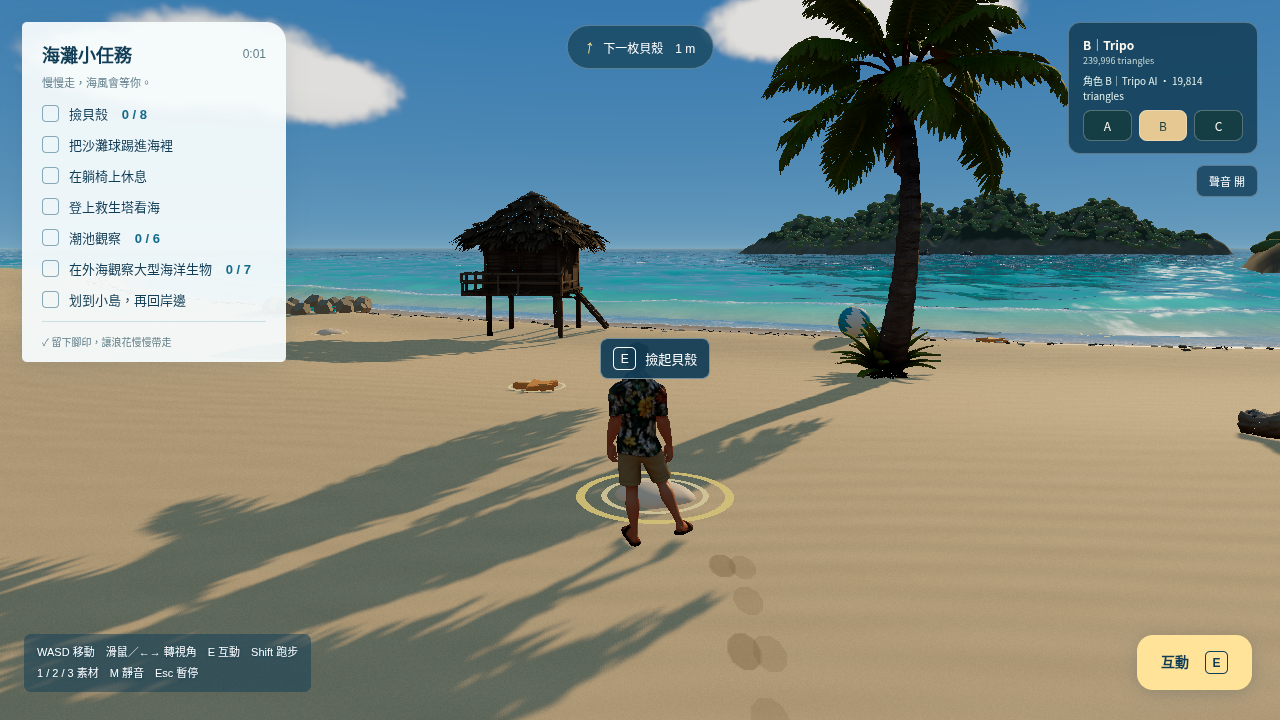
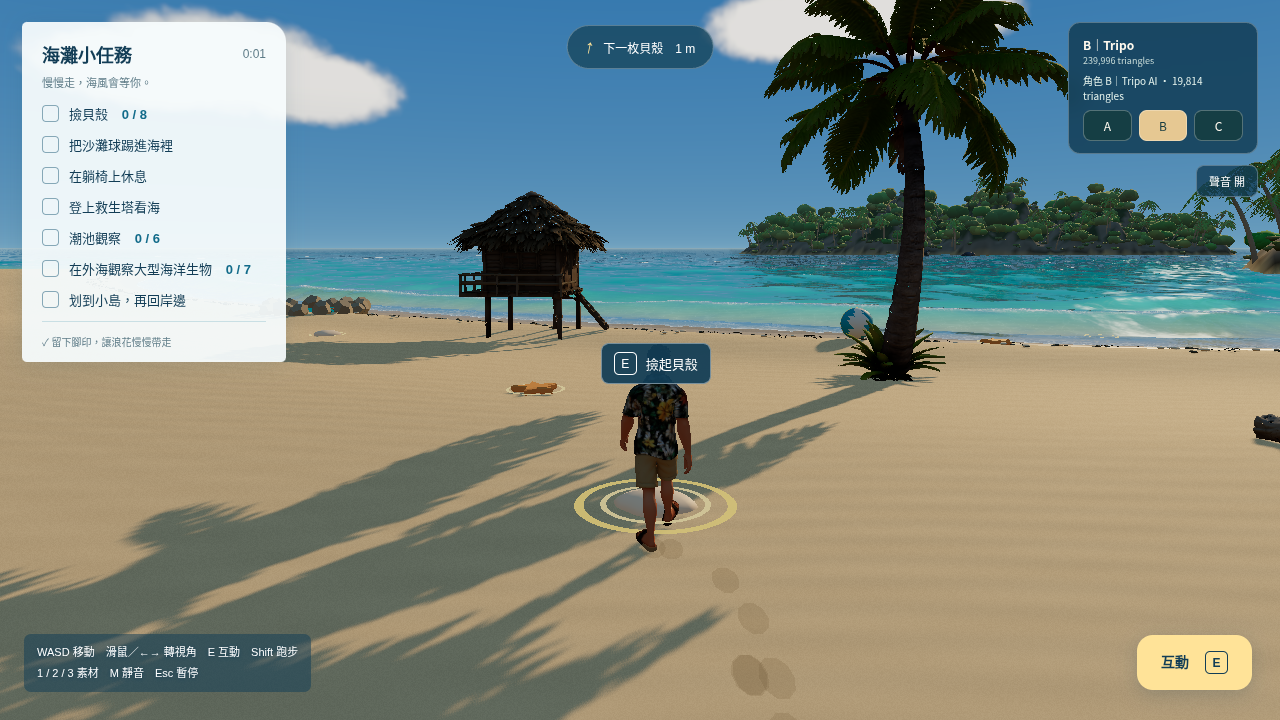
修正錄影時遊戲跑兩倍速：step() 推進過的時間，畫面迴圈不再重複更新；更新遊戲回歸截圖（上船、走跑、小島植被合併後）
Claude-Session: https://claude.ai/code/session_01USRpqyJ3nNu4mbR3gC6di4

diff --git a/src/game/index.js b/src/game/index.js
@@ -675,6 +675,6 @@ export async function createGame({scene,camera,renderer,water,config,explore:e,a
    }});
   return [...targets,sand].map(t=>({id:t.id,n:t.n,max:+t.max.toFixed(3),worst:t.worst}));
  }
- if(auto){Object.assign(api,{penetration,boardInfo(){return {stern:boat.stern,hull:boat.hull,seat:boatSeat.point.toArray(),floorY:row.floorY,deck:boat.deck?.map(d=>[+d.z.toFixed(2),+d.y.toFixed(2),...d.gun.map(g=>g&&[+g.x.toFixed(2),+g.y.toFixed(2)])]),player:e.player.toArray(),feet:launch.feet.map(f=>f.toArray()),hands:launch.hands.map(h=>h.toArray()),pelvis:launch.pelvis,lean:launch.lean,vessel:vessel.matrixWorld.elements.slice()};},boatInfo(){const b=new T.Box3().setFromObject(boatModel,true);return {draft:boat.draft,mask:boat.mask?boat.mask.geometry.attributes.position.count:0,keelBelowWater:+(vessel.position.y-b.min.y).toFixed(3),gunwaleAboveWater:+(b.max.y-vessel.position.y).toFixed(3)};},ladder(){return anchors.lifeguard.ladder;},climbState(){return {towerT,towerDir,root:climb.root.toArray(),hands:climb.hands.map(h=>h.toArray()),player:e.player.toArray(),total:towerTotal()};},footWorld(i){return character.footWorld(i,new T.Vector3());},handWorld(i){return character.rig.hand[i].getWorldPosition(new T.Vector3());},teleport(x,z){if(mode!=='walk')throw Error('Teleport is only available on foot');e.player.set(x,groundHeight(x,z),z);lastPlayer.copy(e.player);},targets(){return {shells:objects.items.map(s=>({x:s.x,y:s.y,z:s.z,collected:s.collected})),ball:objects.ball.position.toArray(),umbrella:anchors.umbrella.point.toArray(),tidepool:pool.point.toArray(),lagoon:pool.point.toArray(),lifeguard:anchors.lifeguard.point.toArray(),boat:anchors.boat.point.toArray(),dock,island};},step(seconds){let remaining=seconds;while(remaining>1e-6){const dt=Math.min(1/60,remaining);window.__TIME__=time()+dt;water.material.uniforms.time.value=window.__TIME__;e.update(dt);update(dt,window.__TIME__);remaining-=dt;}},steer(angle){if(mode!=='boat')throw Error('Not in boat');boatYaw=angle;},view(yaw){e.setView(yaw);},wave(x,z,t){return {...sampleWater(x,z,t,{}),drawn:surfaceHeight(x,z,t)};}});Object.defineProperty(api,'pushBoat',{get(){return pushBoat;},set(v){pushBoat=!!v;}});Object.defineProperty(api,'launch',{get(){return {active:launch.active,board:launch.board,speed:launch.speed,hands:launch.hands.map(h=>h.toArray())};}});Object.defineProperty(api,'vessel',{get(){return {x:vessel.position.x,y:vessel.position.y,z:vessel.position.z,yaw:boatYaw,speed:boatSpeed};}});window.__GAME__=api;}
+ if(auto){Object.assign(api,{penetration,boardInfo(){return {stern:boat.stern,hull:boat.hull,seat:boatSeat.point.toArray(),floorY:row.floorY,deck:boat.deck?.map(d=>[+d.z.toFixed(2),+d.y.toFixed(2),...d.gun.map(g=>g&&[+g.x.toFixed(2),+g.y.toFixed(2)])]),player:e.player.toArray(),feet:launch.feet.map(f=>f.toArray()),hands:launch.hands.map(h=>h.toArray()),pelvis:launch.pelvis,lean:launch.lean,vessel:vessel.matrixWorld.elements.slice()};},boatInfo(){const b=new T.Box3().setFromObject(boatModel,true);return {draft:boat.draft,mask:boat.mask?boat.mask.geometry.attributes.position.count:0,keelBelowWater:+(vessel.position.y-b.min.y).toFixed(3),gunwaleAboveWater:+(b.max.y-vessel.position.y).toFixed(3)};},ladder(){return anchors.lifeguard.ladder;},climbState(){return {towerT,towerDir,root:climb.root.toArray(),hands:climb.hands.map(h=>h.toArray()),player:e.player.toArray(),total:towerTotal()};},footWorld(i){return character.footWorld(i,new T.Vector3());},handWorld(i){return character.rig.hand[i].getWorldPosition(new T.Vector3());},teleport(x,z){if(mode!=='walk')throw Error('Teleport is only available on foot');e.player.set(x,groundHeight(x,z),z);lastPlayer.copy(e.player);},targets(){return {shells:objects.items.map(s=>({x:s.x,y:s.y,z:s.z,collected:s.collected})),ball:objects.ball.position.toArray(),umbrella:anchors.umbrella.point.toArray(),tidepool:pool.point.toArray(),lagoon:pool.point.toArray(),lifeguard:anchors.lifeguard.point.toArray(),boat:anchors.boat.point.toArray(),dock,island};},step(seconds){let remaining=seconds;while(remaining>1e-6){const dt=Math.min(1/60,remaining);window.__TIME__=time()+dt;water.material.uniforms.time.value=window.__TIME__;e.update(dt);update(dt,window.__TIME__);remaining-=dt;}water.userData.simTime=window.__TIME__;},steer(angle){if(mode!=='boat')throw Error('Not in boat');boatYaw=angle;},view(yaw){e.setView(yaw);},wave(x,z,t){return {...sampleWater(x,z,t,{}),drawn:surfaceHeight(x,z,t)};}});Object.defineProperty(api,'pushBoat',{get(){return pushBoat;},set(v){pushBoat=!!v;}});Object.defineProperty(api,'launch',{get(){return {active:launch.active,board:launch.board,speed:launch.speed,hands:launch.hands.map(h=>h.toArray())};}});Object.defineProperty(api,'vessel',{get(){return {x:vessel.position.x,y:vessel.position.y,z:vessel.position.z,yaw:boatYaw,speed:boatSpeed};}});window.__GAME__=api;}
  update(0,time());return api;
 }

diff --git a/src/main.js b/src/main.js
@@ -69,6 +69,6 @@ const game=gaming?await (await import('./game/index.js')).createGame({scene,came
 let lastFrame=performance.now(),lastWaterTime=water.material.uniforms.time.value;
 comparison?.connect(explore);
 const clock=new THREE.Clock();const fixed=params.has('time')?Number(params.get('time')):null;
-function frame(){requestAnimationFrame(frame);water.material.uniforms.time.value=window.__TIME__??fixed??clock.getElapsedTime();controls?.update();const now=performance.now();const gameDt=Math.max(0,Math.min(.1,water.material.uniforms.time.value-lastWaterTime));explore?.update(gaming?gameDt:(now-lastFrame)/1000);game?.update(gameDt,water.material.uniforms.time.value);lastWaterTime=water.material.uniforms.time.value;lastFrame=now;if(comparison)comparison.render();else if(!game?.suspended)composer.render();}frame();  // 潮池 iframe 開著時暫停沙灘繪製
+function frame(){requestAnimationFrame(frame);water.material.uniforms.time.value=window.__TIME__??fixed??clock.getElapsedTime();controls?.update();const now=performance.now();const gameDt=Math.max(0,Math.min(.1,water.material.uniforms.time.value-Math.max(lastWaterTime,water.userData.simTime??-Infinity)));explore?.update(gaming?gameDt:(now-lastFrame)/1000);game?.update(gameDt,water.material.uniforms.time.value);lastWaterTime=water.material.uniforms.time.value;lastFrame=now;if(comparison)comparison.render();else if(!game?.suspended)composer.render();}frame();  // 潮池 iframe 開著時暫停沙灘繪製
 window.__SCENE__={scene,camera,water,propRoot,results,renderer};window.__READY__=true;
 addEventListener('resize',()=>{if(comparison){comparison.resize();return;}camera.aspect=innerWidth/innerHeight;camera.updateProjectionMatrix();renderer.setSize(innerWidth,innerHeight);composer.setSize(innerWidth,innerHeight);});

diff --git a/NOTES.md b/NOTES.md
@@ -288,3 +288,4 @@ Open **http://localhost:5191/game.html** (also linked as **遊戲模式** on the
 - **小島植被（2026-10-21）**：原本兩座島（遠處小島與右側岬角）各是 3200 顆圓球樹冠，看起來一團團。改成 `src/vegetation.js`：闊葉樹冠由幾顆變形的小球拼成不規則的一團、底部與內側較暗、近看有葉叢明暗（shader 的世界座標雜訊，約 110 m 外淡出避免閃爍），下面有短樹幹，少數高大的突出樹讓輪廓起伏；椰子樹（彎曲漸細的樹幹、下垂的羽狀葉、底下幾顆椰子）多長在靠海處、往下坡傾；林緣、低處與岩坡有灌木。地面顏色：林下改淺一點的綠褐色（原本樹冠間的縫是黑的），水邊一圈沙與濕岩，岩石調亮。全部固定種子，兩座島共用 9 個 InstancedMesh。原本樹木的亂數和海灘碎貝殼共用同一個種子，所以 `hill()` 照舊抽同樣的亂數，碎貝殼位置不變（實例矩陣校驗和相同）。wide 鏡頭：draw call 63 → 83，三角形 338 萬 → 395 萬（含陰影與反射 pass）。三組共用，盲評分數與 REPORT 是之前的畫面。
 - **爬進小船（2026-10-21）**：推船到水夠深之後，原本是 1.2 秒從身後直線內插到座位、中間往上跳一下，身體直接轉正，看起來像飄進船裡。現在是 3.2 秒的分段動作（全部由經過的時間決定，逐格錄影一致）：走近船尾、雙手抓住船尾上緣 → 撐起身體、胸口趴過船尾（臀部到船尾頂的高度）→ 一隻膝蓋跨過船尾、踩到船裡（地板或座板），另一隻再跨進來 → 蹲低、雙手改扶兩側船舷 → 往前跨過座板 → 面向船頭坐下，手移到槳上。船內可以踩的高度（`boat.deck`）和船舷位置在設定船的時候量好：船舷用從船外往內打的射線找（C 組自帶的槳會把外框撐寬到 3.5 m，超過中線 0.9 m 的命中略過；單層船殼從裡面打會打不到）。爬進來時船尾被壓低約 5°、整條船下沉 2 cm。臀部到座位時（2.9 秒）切換成坐姿並跳過姿勢過渡（`snapPose`），身體不會彈一下。量測：手到目標的誤差多數 ≤ 0.12 m，蹲在船裡扶船舷時最多 0.28 m（C 組）；B 組跨過船尾那一下小腿陷入船尾約 11 cm、從座板踩下時腳趾約 9 cm，坐下後轉成划船姿勢的 0.3 秒內大腿碰座板約 13 cm（舊版上船後也一樣）。
 - **走跑切換加減速（2026-10-21）**：原本角色速度在一格內就從 4.5 m/s 變成 1.8 m/s 或 0，動畫混合再追上去，所以放開 Shift 時像慢動作跑步，停下時整個人定格、腿停在半空再變回站姿。現在速度本身有加減速：起步與從走路停下約 0.3 秒，走↔跑約 0.8 秒（幾步漸短的步幅），從跑步停下約 1 秒；沒有輸入時沿最後的方向減速停下。遊戲中上半身依加速度前傾或後仰（最多約 6°）。混合權重改為緊跟實際速度，步頻仍依實際速度推算，腳不滑。
+- **錄影時遊戲跑兩倍速（2026-10-21 修正）**：`__GAME__.step(dt)` 推進時鐘並更新遊戲後，`main.js` 的畫面迴圈用「水面時鐘－上次畫面時間」又更新一次，所以「step 後等畫面」的錄影腳本（外海、遊戲精華、遊戲潮池、走位）裡角色、小船、划槳都是兩倍速。現在 `step()` 記下已推進到的時間（`water.userData.simTime`），畫面迴圈只補算之後的部分。外海錄影模擬三組仍觀察到 7 種、`verify-game` 通過。

diff --git a/CLAUDE.md b/CLAUDE.md
@@ -92,7 +92,7 @@ There is no lint or unit-test setup. Verification means running the Playwright s
   - `window.__TIME__`: when set, it overrides the water/sand clock.
   - `?time=N`: freezes time.
   - With `?auto=1` only: `window.__EXPLORE__` and `window.__GAME__` (including deterministic `step(seconds)`, `teleport`, `view`, `interact`).
-  - In game mode, game/explore dt is derived from the water clock, so a frozen clock freezes play.
+  - In game mode, game/explore dt is derived from the water clock, so a frozen clock freezes play. `__GAME__.step()` records the time it advanced to (`water.userData.simTime`), and the frame loop only simulates past it; before 2026-10-21 a recorder that stepped and then waited for a frame advanced play twice per step (game recordings ran at double speed).
 - **Characters.** `src/game/character.js` serves both the game and the solo viewer.
   - A: procedural SkinnedMesh.
   - B: Tripo `assets/character/{idle,walk,run,jump,climb}.glb`, with clips merged onto one skeleton. Since 2026-10-20 the rig is Tripo v3.0 `spec=unity` (67 joints, three-joint fingers). It was re-rigged from the original model task with `tools/tripo_rig_test.py` and `tools/tripo_retarget_v3.py`; credits are in `assets/tripo/log.csv`. The old 41-joint rig had no fingers.
